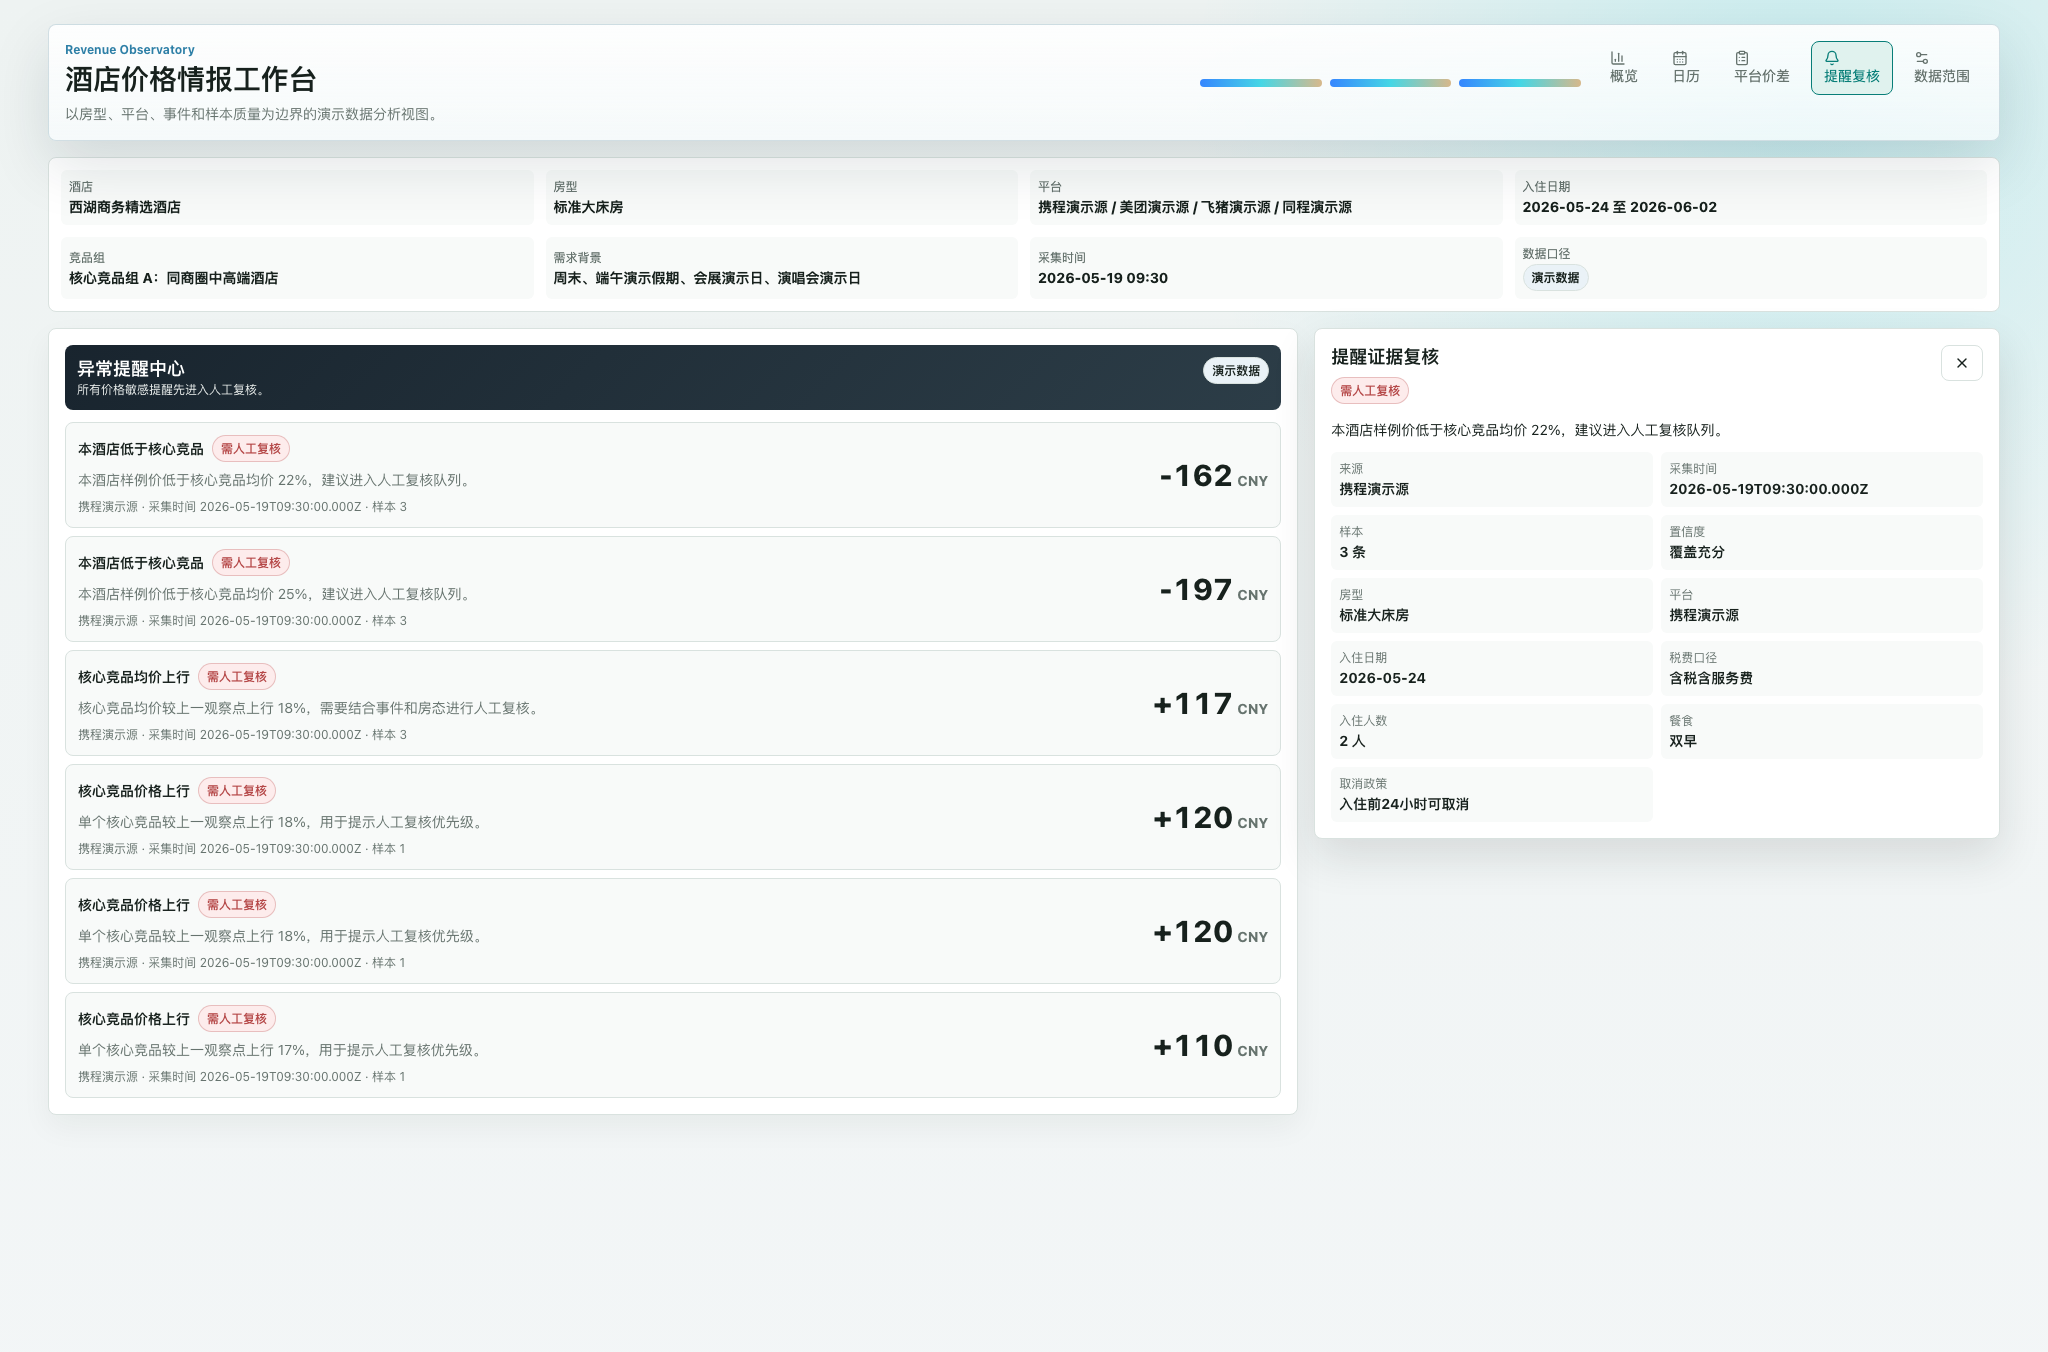
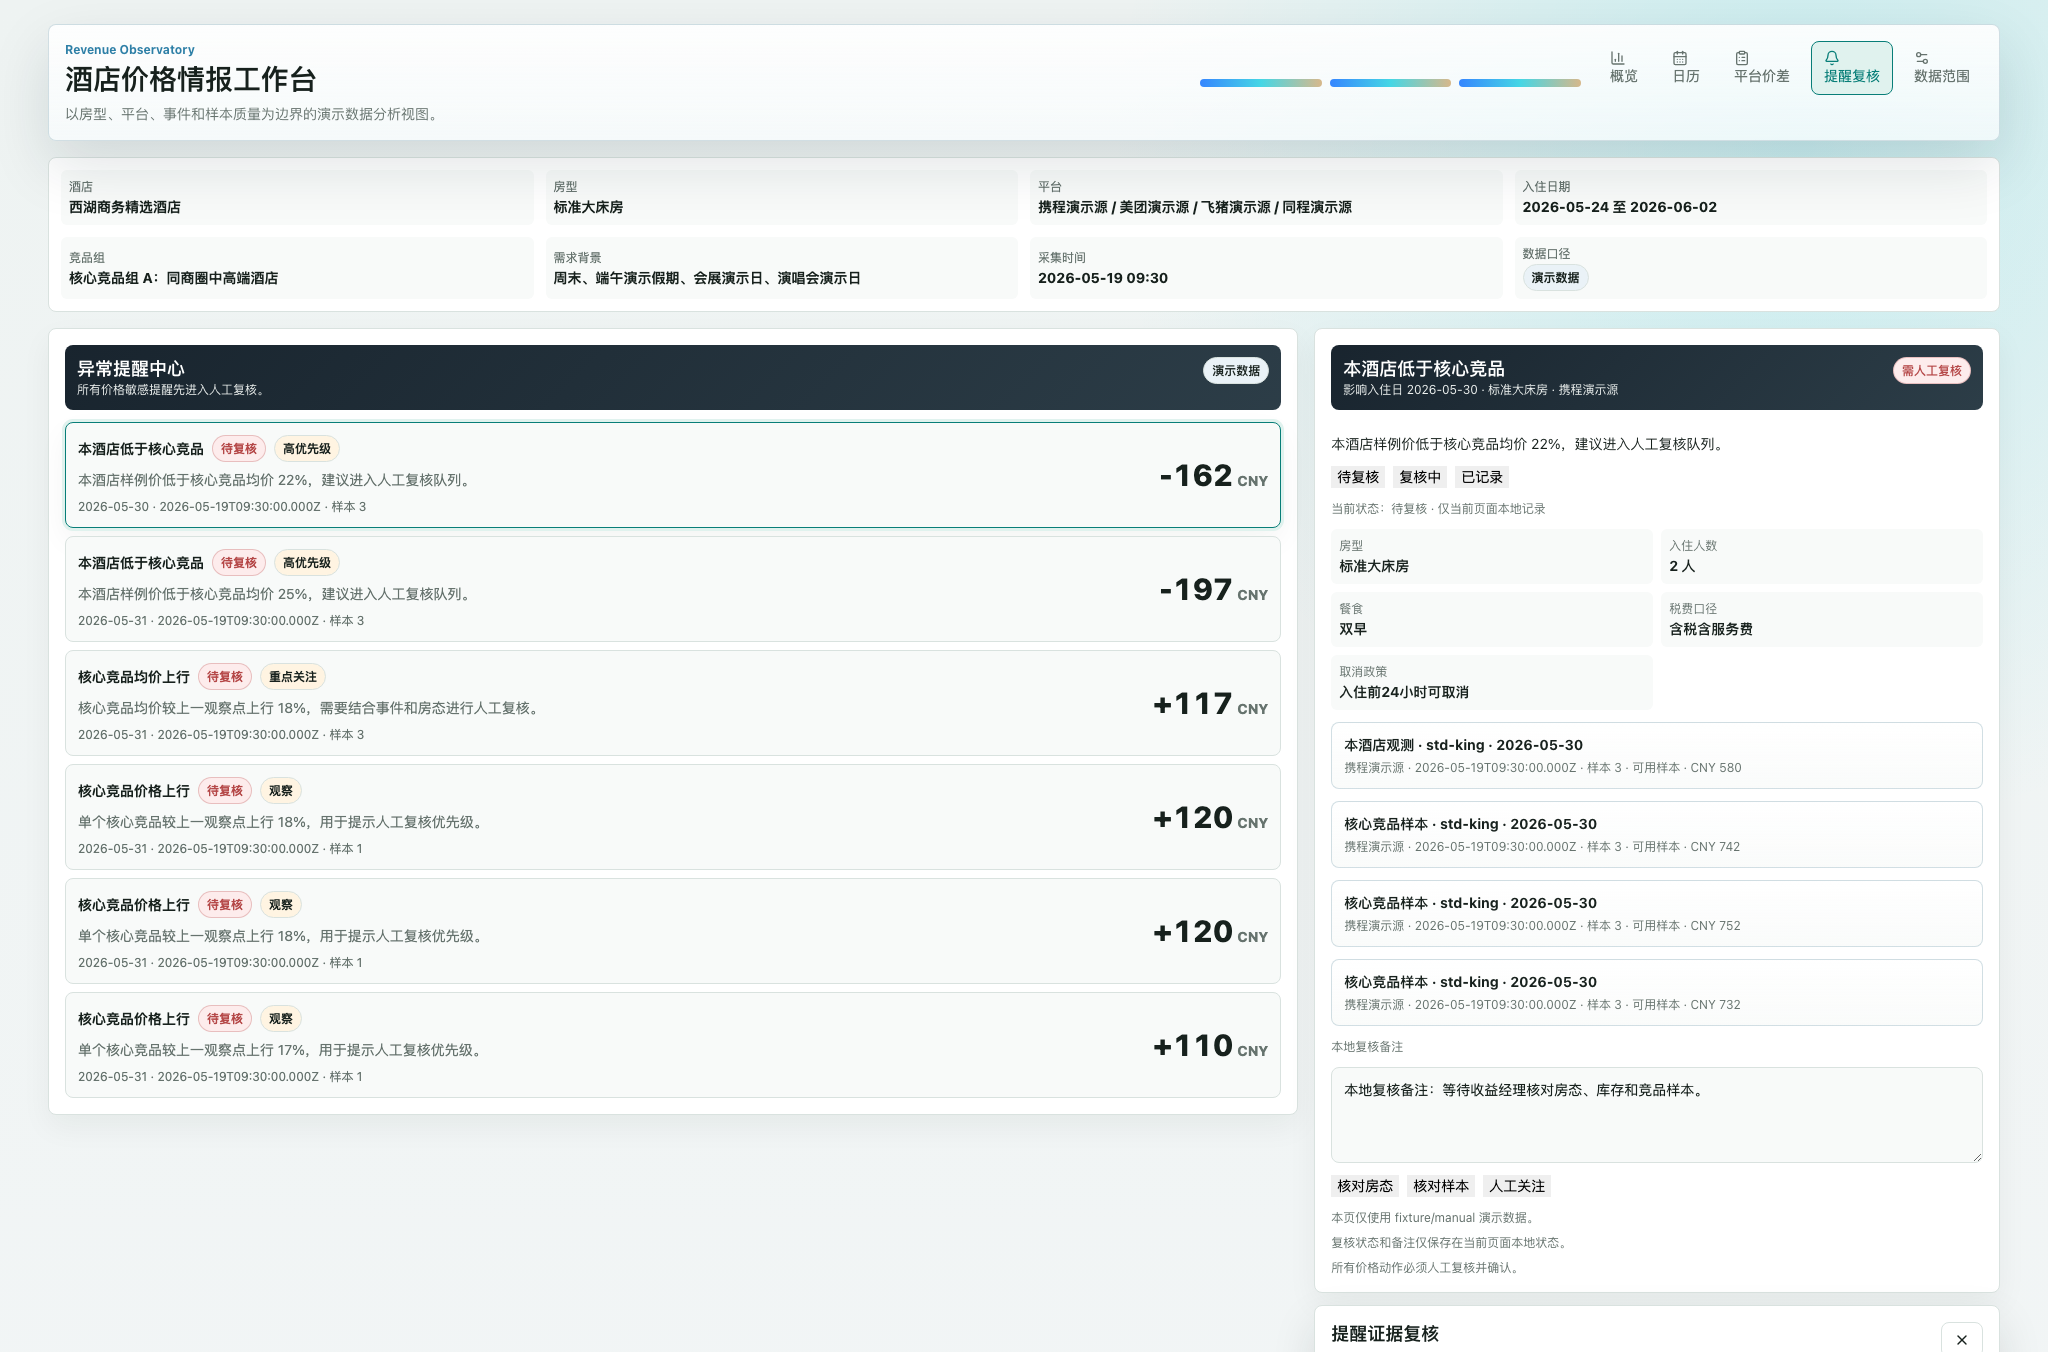
test: cover alert review workflow

diff --git a/app/tests/e2e/app-foundation.spec.ts b/app/tests/e2e/app-foundation.spec.ts
@@ -94,3 +94,33 @@ test('calendar date click updates mobile detail workflow without overflow', asyn
   const overflow = await page.evaluate(() => document.documentElement.scrollWidth - document.documentElement.clientWidth);
   expect(overflow).toBeLessThanOrEqual(8);
 });
+
+test('alert review selection keeps status and notes local on mobile', async ({ page }) => {
+  await page.setViewportSize({ width: 390, height: 844 });
+  await page.goto('/?screen=alerts&state=drawer-open');
+
+  const detail = page.getByTestId('alert-review-detail');
+  await expect(detail).toContainText('需人工复核');
+  await expect(detail).toContainText('本地复核备注');
+
+  const secondAlert = page.locator('.alert-row--button').nth(1);
+  const secondTitle = await secondAlert.locator('strong').innerText();
+  await secondAlert.click();
+  await expect(detail).toContainText(secondTitle);
+
+  await page.getByRole('button', { name: '复核中' }).click();
+  await expect(detail).toContainText('当前状态：复核中');
+
+  const note = page.getByLabel('本地复核备注');
+  await note.fill('移动端本地备注：核对样本后再判断');
+  await expect(note).toHaveValue('移动端本地备注：核对样本后再判断');
+
+  const storageWrites = await page.evaluate(() => ({
+    localStorage: window.localStorage.length,
+    sessionStorage: window.sessionStorage.length
+  }));
+  expect(storageWrites).toEqual({ localStorage: 0, sessionStorage: 0 });
+
+  const overflow = await page.evaluate(() => document.documentElement.scrollWidth - document.documentElement.clientWidth);
+  expect(overflow).toBeLessThanOrEqual(8);
+});

diff --git a/app/src/screens/AlertReviewScreen.tsx b/app/src/screens/AlertReviewScreen.tsx
@@ -155,8 +155,8 @@ export function AlertReviewScreen({ dataset, drawerOpen }: AlertReviewScreenProp
           </dl>
 
           <div className="alert-evidence-list">
-            {selectedItem.evidenceRows.map((row) => (
-              <div className="calendar-evidence-row" key={`${row.role}-${row.captureTime}-${row.label}`}>
+            {selectedItem.evidenceRows.map((row, index) => (
+              <div className="calendar-evidence-row" key={`${row.role}-${row.captureTime}-${row.label}-${index}`}>
                 <strong>{row.label}</strong>
                 <span className="panel__meta">
                   {row.source} · {row.captureTime} · 样本 {row.sampleSize} · {evidenceStatusLabel[row.status]} · {formatPrice(row.price)}
